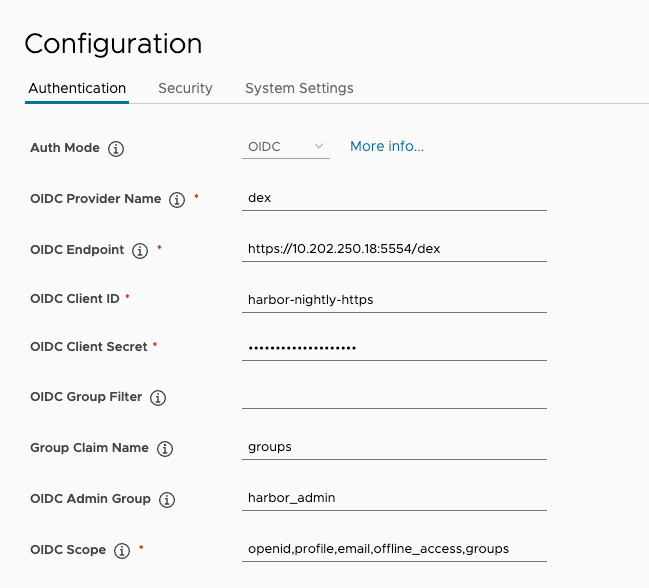
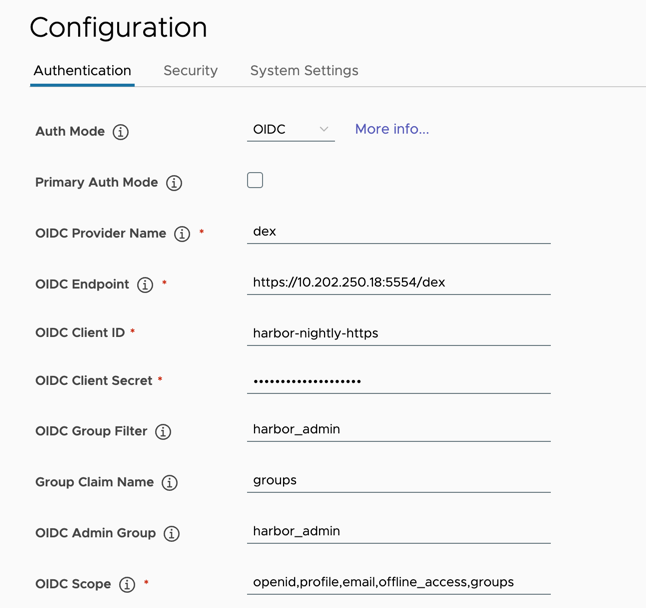
Add Primary Auth Mode for OIDC configuration

diff --git a/docs/administration/configure-authentication/oidc-auth.md b/docs/administration/configure-authentication/oidc-auth.md
@@ -30,7 +30,7 @@ Before configuring an OIDC provider in Harbor, make sure that your provider is c
 
    ![LDAP authentication](../../../img/select-oidc-auth.png)
 1. Enter information about your OIDC provider.   
-
+   - **Primary Auth Mode**: Whether to use the OIDC mode as the primary auth mode.
    - **OIDC Provider Name**: The name of the OIDC provider.
    - **OIDC Provider Endpoint**: The URL of the endpoint of the OIDC provider.
    - **OIDC Client ID**: The client ID with which Harbor is registered as  client application with the OIDC provider.
